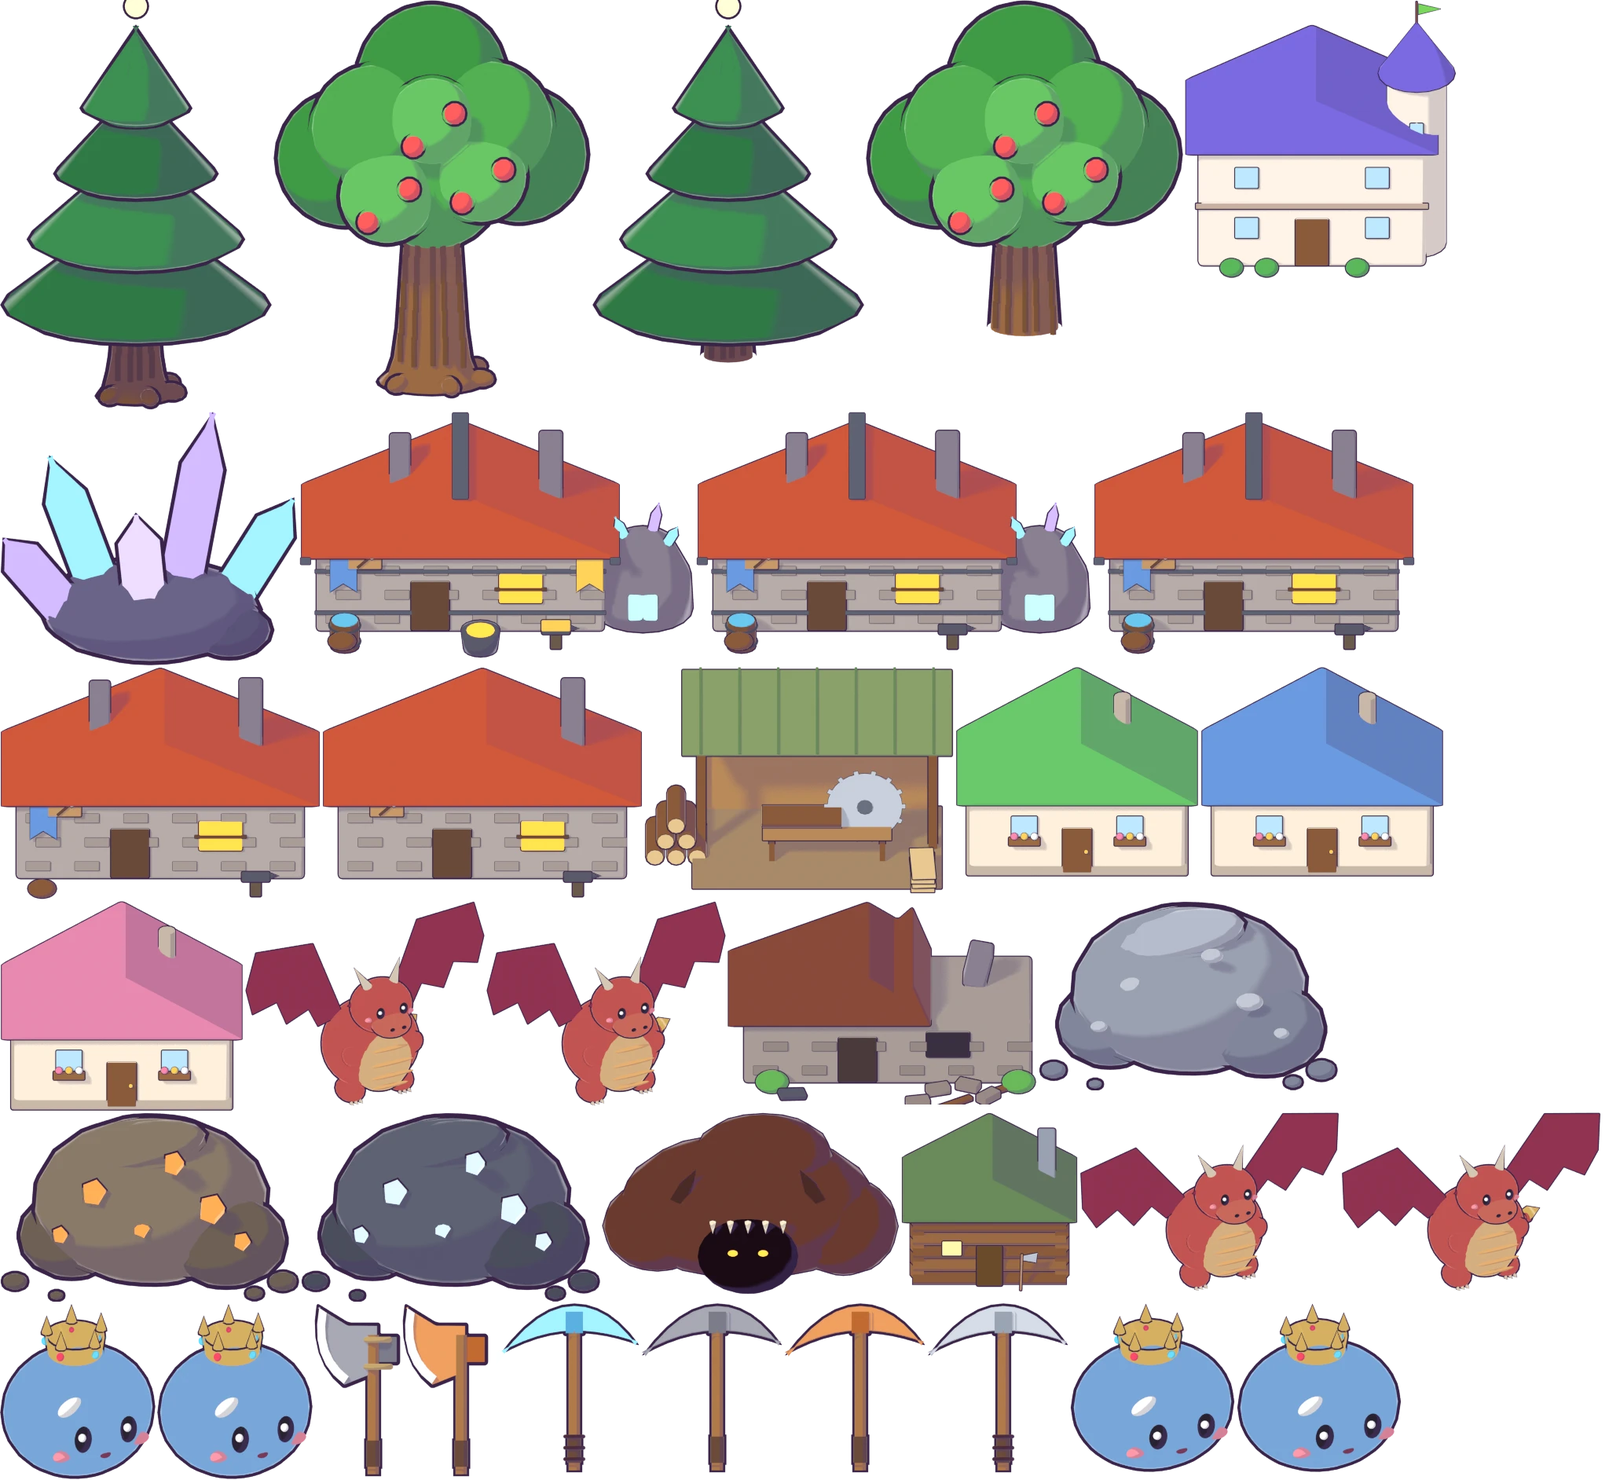
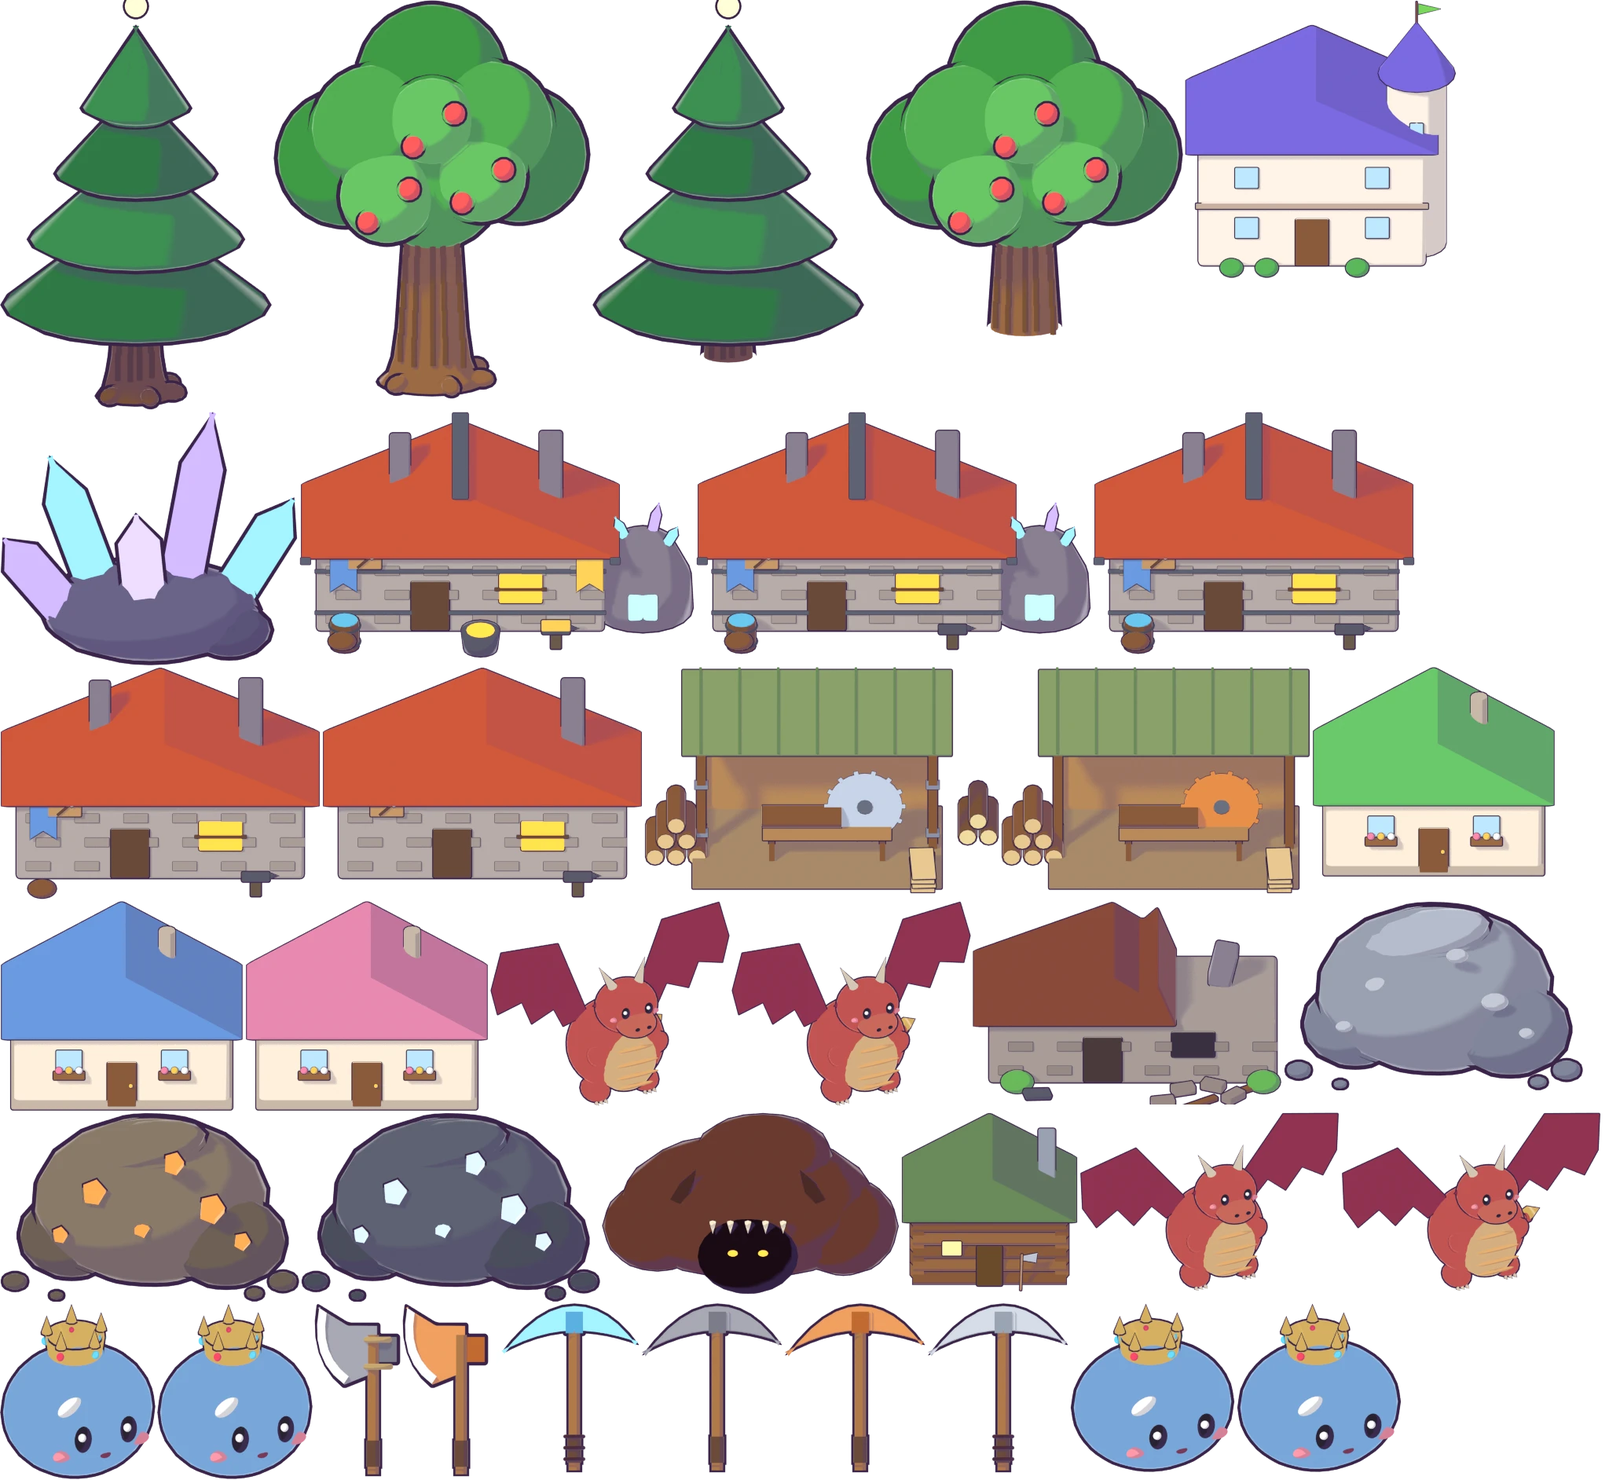
The Sawmill's blade is copper (you paid for it), and an Iron Sawmill saws Pine too
- Art: the built Sawmill's blade is copper; a new Iron Sawmill level has an
  iron blade, iron bands on the posts, and pine waiting beside the oak (map
  sprite and plans icon).
- Iron Sawmill (iron 2, pine 8, stone 6: iron was already near the farming
  budget): saws Pine Logs as well as Oak, one plank every 20 s instead of 30.
- The Sawmill screen has a row per kind of log it takes, with Saw 1 / Saw 5.

Claude-Session: https://claude.ai/code/session_01Cnp5YLEMizt2p6ijhwv75C

Changed region(s): [[0.0, 0.431, 1.0, 0.7696]]

diff --git a/src/sawmill.ts b/src/sawmill.ts
@@ -1,11 +1,19 @@
-// Bram's Sawmill: drop off Oak Logs and he saws them into Planks, one every SAW_SECONDS of real time, so they pile up
-// while you're out adventuring (or away from the game). Come back and collect them.
+// Bram's Sawmill: drop off logs and he saws them into Planks, one every so many seconds of real time, so they pile up
+// while you're out adventuring (or away from the game). Come back and collect them. The copper blade only manages
+// Oak; the Iron Sawmill cuts Pine too, and faster.
 import type { SaveState } from './state';
 
-/** Oak Logs per Plank. */
+/** Logs per Plank. */
 export const LOGS_PER_PLANK = 2;
-/** Seconds of real time per Plank. */
+/** Seconds of real time per Plank: the copper blade, and the iron one. */
 export const SAW_SECONDS = 30;
+export const IRON_SAW_SECONDS = 20;
+export type SawLog = 'bark' | 'pine';
+
+/** How long a plank takes at this Sawmill. */
+export const sawSeconds = (s: SaveState) => (s.build.sawmill >= 2 ? IRON_SAW_SECONDS : SAW_SECONDS);
+/** Which logs it can saw: Oak with the copper blade, Pine too once it's iron. */
+export const sawLogs = (s: SaveState): SawLog[] => (s.build.sawmill >= 2 ? ['bark', 'pine'] : ['bark']);
 /** Planks waiting to be sawn or collected at once. */
 export const SAW_MAX = 12;
 
@@ -23,29 +31,31 @@ const saw = (s: SaveState): SawState => (s.sawmill ??= { queued: 0, ready: 0, si
 /** Brings the sawing up to `now`: every SAW_SECONDS turns one queued plank into a ready one. */
 export function sawUpdate(s: SaveState, now = Date.now()): SawState {
   const w = saw(s);
-  while (w.queued > 0 && now - w.since >= SAW_SECONDS * 1000) {
+  const each = sawSeconds(s) * 1000;
+  while (w.queued > 0 && now - w.since >= each) {
     w.queued--;
     w.ready++;
-    w.since += SAW_SECONDS * 1000;
+    w.since += each;
   }
   if (w.queued === 0) w.since = now;
   return w;
 }
 
-/** How many more planks you could order now (room at the mill, and logs in your bag). */
-export function canOrder(s: SaveState, now = Date.now()): number {
+/** How many more planks you could order from these logs now (room at the mill, and logs in your bag). */
+export function canOrder(s: SaveState, log: SawLog = 'bark', now = Date.now()): number {
+  if (!sawLogs(s).includes(log)) return 0;
   const w = sawUpdate(s, now);
-  return Math.max(0, Math.min(SAW_MAX - w.queued - w.ready, Math.floor(s.mats.bark / LOGS_PER_PLANK)));
+  return Math.max(0, Math.min(SAW_MAX - w.queued - w.ready, Math.floor(s.mats[log] / LOGS_PER_PLANK)));
 }
 
 /** Hands Bram the logs for up to `n` planks; returns how many he took on. */
-export function sawOrder(s: SaveState, n: number, now = Date.now()): number {
-  const k = Math.min(n, canOrder(s, now));
+export function sawOrder(s: SaveState, n: number, log: SawLog = 'bark', now = Date.now()): number {
+  const k = Math.min(n, canOrder(s, log, now));
   if (k <= 0) return 0;
   const w = saw(s);
   if (w.queued === 0) w.since = now;
   w.queued += k;
-  s.mats.bark -= k * LOGS_PER_PLANK;
+  s.mats[log] -= k * LOGS_PER_PLANK;
   return k;
 }
 
@@ -60,5 +70,5 @@ export function sawCollect(s: SaveState, now = Date.now()): number {
 /** Seconds until the next plank is done (0 when nothing's on the bench). */
 export function nextPlankIn(s: SaveState, now = Date.now()): number {
   const w = sawUpdate(s, now);
-  return w.queued > 0 ? Math.max(0, Math.ceil(SAW_SECONDS - (now - w.since) / 1000)) : 0;
+  return w.queued > 0 ? Math.max(0, Math.ceil(sawSeconds(s) - (now - w.since) / 1000)) : 0;
 }

diff --git a/src/ui.ts b/src/ui.ts
@@ -10,7 +10,7 @@ import type { SaveState } from './state';
 import type { Unlock, UnlockId } from './unlocks';
 import { MOVESETS, comboTime } from './weapons';
 import { MEALS, knownMeals, mealLeft, type MealId } from './kitchen';
-import { LOGS_PER_PLANK, SAW_SECONDS, canOrder, nextPlankIn, sawUpdate } from './sawmill';
+import { LOGS_PER_PLANK, canOrder, nextPlankIn, sawLogs, sawSeconds, sawUpdate } from './sawmill';
 import { usingKeyboard } from './input';
 import { canShareFiles } from './share';
 import { reportInfo } from './stats';
@@ -1094,26 +1094,33 @@ export class UI {
 
   /**
    * Bram's Sawmill: what's on the bench, what's ready, and buttons to hand him logs or take your planks.
-   * Resolves 'saw:<n>', 'collect' or 'close'.
+   * Resolves 'saw:<n>:<log>', 'collect' or 'close'.
    */
   sawmill(s: SaveState, line: string): Promise<string> {
-    const w = sawUpdate(s), room = canOrder(s), next = nextPlankIn(s);
+    const w = sawUpdate(s), next = nextPlankIn(s), logs = sawLogs(s);
+    const logName = logs.map((l) => MATS[l].name).join(' or ');
     const bench = w.queued
       ? `🪚 Sawing <b>${w.queued}</b> plank${w.queued > 1 ? 's' : ''}: the next in ${next}s.`
-      : 'The saw is quiet. Bring Oak Logs and Bram will get to work.';
+      : `The saw is quiet. Bring ${logName} and Bram will get to work.`;
+    // A row per kind of log it takes: what you have, and buttons to hand over enough for 1 or 5 planks.
+    const rows = logs.map((l) => {
+      const room = canOrder(s, l);
+      return `<div class="sawrow">${icon(l, MATS[l].icon, 'icon sm')}<span><b>${s.mats[l]}</b> ${esc(MATS[l].name)}</span>
+        <button class="go ghost" data-dialog="saw:1:${l}" ${room >= 1 ? '' : 'disabled'}>Saw 1</button>
+        <button class="go ghost" data-dialog="saw:5:${l}" ${room >= 5 ? '' : 'disabled'}>Saw 5</button></div>`;
+    }).join('');
     const btns: [string, string, string?][] = [['close', 'Bye, Bram']];
-    if (room >= 5) btns.unshift(['saw:5', `Saw 5 (${5 * LOGS_PER_PLANK} logs)`, 'ghost']);
-    if (room >= 1) btns.unshift(['saw:1', `Saw 1 (${LOGS_PER_PLANK} logs)`, 'ghost']);
     if (w.ready) btns.push(['collect', `Take ${w.ready} plank${w.ready > 1 ? 's' : ''}`]);
     return this.dialog(
       `${ribbon("Bram's Sawmill")}
        <div class="speaker small">${icon('npc_bram_happy', '🧔', 'icon sm')}<b>Bram</b></div>
        <div class="bubble">${esc(line)}</div>
        <div class="sawbench">
-         <div class="chips">${icon('bark', MATS.bark.icon, 'icon sm')} <b>${s.mats.bark}</b> Oak Logs · ${icon('plank', MATS.plank.icon, 'icon sm')} <b>${s.mats.plank}</b> Planks</div>
+         ${rows}
+         <div class="chips">${icon('plank', MATS.plank.icon, 'icon sm')} You have <b>${s.mats.plank}</b> Planks</div>
          <p>${bench}</p>
          ${w.ready ? `<p class="ready">✨ ${w.ready} plank${w.ready > 1 ? 's' : ''} ready to take!</p>` : ''}
-         <p class="small">${LOGS_PER_PLANK} Oak Logs make a Plank, one every ${SAW_SECONDS} seconds, even while you're away.</p>
+         <p class="small">${LOGS_PER_PLANK} logs make a Plank, one every ${sawSeconds(s)} seconds, even while you're away.${s.build.sawmill < 2 ? ' An iron blade would cut Pine too.' : ''}</p>
        </div>`,
       btns,
       'celebrate quest sawmill',

diff --git a/tests/sawmill.test.ts b/tests/sawmill.test.ts
@@ -1,5 +1,5 @@
 import { describe, expect, test } from 'bun:test';
-import { LOGS_PER_PLANK, SAW_MAX, SAW_SECONDS, canOrder, nextPlankIn, sawCollect, sawOrder, sawUpdate } from '../src/sawmill';
+import { IRON_SAW_SECONDS, LOGS_PER_PLANK, SAW_MAX, SAW_SECONDS, canOrder, nextPlankIn, sawCollect, sawOrder, sawUpdate } from '../src/sawmill';
 import { newState } from '../src/state';
 
 const T0 = 1_000_000;
@@ -9,16 +9,16 @@ describe("Bram's Sawmill", () => {
   test('takes two logs a plank, and only what you can pay for', () => {
     const s = newState();
     s.mats.bark = 5;
-    expect(canOrder(s, T0)).toBe(2);
-    expect(sawOrder(s, 5, T0)).toBe(2);
+    expect(canOrder(s, 'bark', T0)).toBe(2);
+    expect(sawOrder(s, 5, 'bark', T0)).toBe(2);
     expect(s.mats.bark).toBe(5 - 2 * LOGS_PER_PLANK);
-    expect(sawOrder(s, 1, T0)).toBe(0);
+    expect(sawOrder(s, 1, 'bark', T0)).toBe(0);
   });
 
   test('saws one plank every SAW_SECONDS of real time, even while you are away', () => {
     const s = newState();
     s.mats.bark = 20;
-    sawOrder(s, 3, T0);
+    sawOrder(s, 3, 'bark', T0);
     expect(nextPlankIn(s, T0)).toBe(SAW_SECONDS);
     expect(sawUpdate(s, later(SAW_SECONDS - 1)).ready).toBe(0);
     expect(sawUpdate(s, later(SAW_SECONDS)).ready).toBe(1);
@@ -30,7 +30,7 @@ describe("Bram's Sawmill", () => {
   test('collecting puts the planks in your bag', () => {
     const s = newState();
     s.mats.bark = 20;
-    sawOrder(s, 2, T0);
+    sawOrder(s, 2, 'bark', T0);
     expect(sawCollect(s, later(SAW_SECONDS * 2))).toBe(2);
     expect(s.mats.plank).toBe(2);
     expect(sawCollect(s, later(SAW_SECONDS * 3))).toBe(0);
@@ -39,9 +39,9 @@ describe("Bram's Sawmill", () => {
   test('an order made later starts its own clock', () => {
     const s = newState();
     s.mats.bark = 20;
-    sawOrder(s, 1, T0);
+    sawOrder(s, 1, 'bark', T0);
     sawUpdate(s, later(1000));
-    sawOrder(s, 1, later(1000));
+    sawOrder(s, 1, 'bark', later(1000));
     expect(sawUpdate(s, later(1000 + SAW_SECONDS - 1)).ready).toBe(1);
     expect(sawUpdate(s, later(1000 + SAW_SECONDS)).ready).toBe(2);
   });
@@ -49,7 +49,20 @@ describe("Bram's Sawmill", () => {
   test('the bench holds at most SAW_MAX planks, sawing or waiting', () => {
     const s = newState();
     s.mats.bark = 999;
-    expect(sawOrder(s, 999, T0)).toBe(SAW_MAX);
-    expect(canOrder(s, T0)).toBe(0);
+    expect(sawOrder(s, 999, 'bark', T0)).toBe(SAW_MAX);
+    expect(canOrder(s, 'bark', T0)).toBe(0);
+  });
+
+  test('the copper blade only saws Oak; the Iron Sawmill saws Pine too, and faster', () => {
+    const s = newState();
+    Object.assign(s.mats, { bark: 10, pine: 10 });
+    s.build.sawmill = 1;
+    expect(sawOrder(s, 1, 'pine', T0)).toBe(0);
+    expect(s.mats.pine).toBe(10);
+    s.build.sawmill = 2;
+    expect(sawOrder(s, 2, 'pine', T0)).toBe(2);
+    expect(s.mats.pine).toBe(10 - 2 * LOGS_PER_PLANK);
+    expect(IRON_SAW_SECONDS).toBeLessThan(SAW_SECONDS);
+    expect(sawUpdate(s, later(IRON_SAW_SECONDS * 2)).ready).toBe(2);
   });
 });

diff --git a/src/version.ts b/src/version.ts
@@ -35,7 +35,7 @@ export const PATCH_NOTES: PatchNote[] = [
       '⭐ Winning feels like growing stronger: after a fight "+XP" pops up and your XP bar fills with bubbly chirps that climb faster as it nears the top, rings with a bright bell when it tops out, and keeps filling into the next level.',
       "👵 Granny Clover lives in Sowerby from the day you arrive, worrying about her granddaughter. Once Poppy's safe home, Granny's Kitchen opens: Fluff Pancakes for more XP, Clover Tea to heal after fights, and Goo Jelly to keep weak monsters away. One meal at a time; a little plate on your health bar shows what's left.",
       "🧔 A new side story, Bram's Sawmill: Granny sends you to an old friend, a grumpy lumberjack in Whisper Woods. Chop quietly (misses are loud!), defend his camp from a Woolf pack and its scarred leader, then help him home.",
-      "🪚 Bram's Sawmill in Sowerby: hand him Oak Logs and he saws them into Planks, even while you're away. He brings a new recipe for Granny's Kitchen too.",
+      "🪚 Bram's Sawmill in Sowerby: hand him Oak Logs and his copper blade saws them into Planks, even while you're away. Upgrade to an Iron Sawmill to saw Pine Logs too, and faster. He brings a new recipe for Granny's Kitchen too.",
       "🪓 A better start in Sowerby: Elder Oswin hands you his old axe and pick. Mend them with monster drops, then gather stone and logs to rebuild the forge.",
       '❤ Levelling up raises your max HP, and adds the same to your health, but no longer heals you fully: rest at Veyra\'s Spring or a campfire for that.',
       '⚔ Weapon handling matters: every swing and shot has a moment before the next, and a full combo a short rest. The more you fight with a kind of weapon, the quicker you get with it, up to about 80% faster when mastered (the Skills tab shows how much). This replaces the stamina meter.',

diff --git a/tests/e2e/smoke.ts b/tests/e2e/smoke.ts
@@ -644,10 +644,10 @@ scenario("Bram's story plays from Granny's pie to his cabin, and Granny learns h
   await playUntil('the Sawmill', async () => (await step()) === 8 && (await game<string>(page, 'g.mode')) === 'world');
   // Saw six planks (the clock wound on, rather than waiting three minutes), take them, and bring them to Bram.
   await talk('bram:bram');
-  await waitFor(page, 'the bench', async () => !!(await page.$('#modal:not([hidden]) [data-dialog="saw:5"]')));
-  await page.click('[data-dialog="saw:5"]');
-  await waitFor(page, 'saw one more', async () => !!(await page.$('#modal:not([hidden]) [data-dialog="saw:1"]')));
-  await page.click('[data-dialog="saw:1"]');
+  await waitFor(page, 'the bench', async () => !!(await page.$('#modal:not([hidden]) [data-dialog="saw:5:bark"]')));
+  await page.click('[data-dialog="saw:5:bark"]');
+  await waitFor(page, 'saw one more', async () => !!(await page.$('#modal:not([hidden]) [data-dialog="saw:1:bark"]')));
+  await page.click('[data-dialog="saw:1:bark"]');
   await page.waitForTimeout(300);
   await page.click('[data-dialog="close"]');
   await page.waitForTimeout(300);

diff --git a/src/data.ts b/src/data.ts
@@ -471,7 +471,10 @@ export const PROJECTS: Record<ProjectId, Project> = {
   // Bram's, once he's moved to Sowerby (his story).
   sawmill: {
     name: 'Sawmill', icon: '🪚',
-    levels: [{ name: 'Sawmill', cost: { pine: 6, stone: 6, copper: 3 }, perk: 'Bram saws your Oak Logs into Planks, even while you\'re away' }],
+    levels: [
+      { name: 'Sawmill', cost: { pine: 6, stone: 6, copper: 3 }, perk: 'A copper blade: Bram saws your Oak Logs into Planks, even while you\'re away' },
+      { name: 'Iron Sawmill', cost: { iron: 2, pine: 8, stone: 6 }, perk: 'An iron blade: saws Pine Logs too, and faster' },
+    ],
   },
 };
 

diff --git a/src/game/stories/bram.ts b/src/game/stories/bram.ts
@@ -61,7 +61,8 @@ export function openSawmill(greeting = MILL_LINES[line++ % MILL_LINES.length]) {
     for (;;) {
       const r = await G.ui.sawmill(G.save, greeting);
       if (r.startsWith('saw:')) {
-        const n = sawOrder(G.save, Number(r.slice(4)));
+        const [, count, log] = r.split(':');
+        const n = sawOrder(G.save, Number(count), log === 'pine' ? 'pine' : 'bark');
         if (n) G.audio.play('chop');
         greeting = n ? `Right. ${n} plank${n > 1 ? 's' : ''} coming up.` : "You'll need more logs than that.";
       } else if (r === 'collect') {

diff --git a/public/style.css b/public/style.css
@@ -1143,3 +1143,6 @@ body.kbd .drag-hint .keys { display: flex; }
 .sheet.sawmill .sawbench .ready { color: #3a8a44; font-weight: 900; }
 .sheet.sawmill .sawbench .small { font-size: 13px; opacity: 0.75; }
 .sheet.sawmill .btns .go { padding: 10px 16px; font-size: 15px; }
+.sheet.sawmill .sawrow { display: flex; align-items: center; gap: 8px; margin: 4px 0; text-align: left; }
+.sheet.sawmill .sawrow span { flex: 1; font-weight: 800; }
+.sheet.sawmill .sawrow .go { padding: 6px 12px; font-size: 14px; }

diff --git a/src/overworld.ts b/src/overworld.ts
@@ -928,7 +928,7 @@ export class Overworld {
         const p = o.project!, l = lv(p);
         if (p === 'home') return { name: `home${l}`, back: 0.42 };
         if (p === 'warp') return { name: `warp${l}`, back: 0.1 };
-        if (p === 'sawmill') return { name: `sawmill${l ? 1 : 0}`, back: 0.3 };
+        if (p === 'sawmill') return { name: `sawmill${l}`, back: 0.3 };
         return { name: l ? `${p}${l}` : 'plot', back: 0.28 };
       }
       default: return null;

diff --git a/art/env.py b/art/env.py
@@ -588,9 +588,9 @@ GRASS = {
 }
 
 # name → (builder, frame w, frame h) in pixels at PPU 64
-def _saw_blade(parent, loc, r, rot=(math.pi / 2, 0, 0), broken=False):
-    """A round saw blade with teeth; `broken` leaves a gap in it."""
-    steel = toon('#c8d0dc', rim=0.35)
+def _saw_blade(parent, loc, r, rot=(math.pi / 2, 0, 0), broken=False, metal='#c8d0dc'):
+    """A round saw blade with teeth; `broken` leaves a gap in it. `metal`: copper, iron or old steel."""
+    steel = toon(metal, rim=0.35)
     cylinder(loc, r, 0.05, steel, parent, seg=28, rot=rot, line=0.012)
     cylinder(loc, r * 0.22, 0.08, toon('#6a7080'), parent, seg=12, rot=rot, line=0.01)
     n = 14
@@ -608,15 +608,15 @@ def _log(parent, loc, length, r, rot, bark='#8a5a3a', end='#e8c890'):
     return parent
 
 
-def log_pile(root=None, n=3):
-    """Logs stacked in a little pyramid, ends facing you."""
+def log_pile(root=None, n=3, bark='#8a5a3a', end='#e8c890'):
+    """Logs stacked in a little pyramid, ends facing you (oak by default; pass pine's colours for pine)."""
     root = root or empty('logs')
     for row, count in enumerate(range(n, 0, -1)):
         for i in range(count):
             x = (i - (count - 1) / 2) * 0.42
             z = 0.2 + row * 0.36
-            cylinder((x, 0, z), 0.2, 1.3, toon('#8a5a3a'), root, seg=12, rot=(math.pi / 2, 0, 0))
-            cylinder((x, -0.66, z), 0.17, 0.02, toon('#e8c890'), root, seg=12, rot=(math.pi / 2, 0, 0), line=0.01)
+            cylinder((x, 0, z), 0.2, 1.3, toon(bark), root, seg=12, rot=(math.pi / 2, 0, 0))
+            cylinder((x, -0.66, z), 0.17, 0.02, toon(end), root, seg=12, rot=(math.pi / 2, 0, 0), line=0.01)
     return root
 
 
@@ -652,7 +652,14 @@ def sawmill(level):
         box((x, -0.35, 0.4), (0.15, 0.7, 0.7), dark, root, bevel=0.02)
     cylinder((-0.3, -0.35, 1.02), 0.24, 1.6, toon('#8a5a3a'), root, seg=12, rot=(0, math.pi / 2, 0))
     cylinder((-1.1, -0.35, 1.02), 0.21, 0.02, plank, root, seg=12, rot=(0, math.pi / 2, 0), line=0.01)
-    _saw_blade(root, (0.95, -0.35, 1.25), 0.75, rot=(math.pi / 2, 0, 0))
+    # The blade is what you paid for: copper at first, iron once upgraded (with iron bands on the posts).
+    _saw_blade(root, (0.95, -0.35, 1.25), 0.75, rot=(math.pi / 2, 0, 0), metal='#e8904a' if level == 1 else '#c8d4e8')
+    if level >= 2:
+        for x in (-w / 2 + 0.2, w / 2 - 0.2):
+            for z in (0.5, 1.6):
+                box((x, -0.1, z), (0.28, 0.28, 0.08), toon('#8a92a8'), root, bevel=0.01, line=0.008)
+        # Pine waiting its turn, beside the oak.
+        log_pile(empty('pines', root, (w / 2 + 0.7, 0.9, 0)), 2, '#7a5238', '#f0dca0')
     # Planks stacked by the front corner, and logs waiting at the side.
     for i in range(4):
         box((w / 2 - 0.4, -d / 2 + 0.1, 0.26 + i * 0.1), (0.5, 1.2, 0.08), plank, root, bevel=0.02, rot=(0, 0, 0.05 * (i % 2)))
@@ -762,6 +769,7 @@ SCENERY['sign'] = (sign, 90, 90)
 SCENERY['lair'] = (lair, 400, 300)
 SCENERY['sawmill0'] = (lambda: sawmill(0), 320, 220)
 SCENERY['sawmill1'] = (lambda: sawmill(1), 360, 340)
+SCENERY['sawmill2'] = (lambda: sawmill(2), 380, 340)
 SCENERY['bramhut'] = (bramhut, 230, 260)
 SCENERY['prop_campstump'] = (camp_stump, 170, 150)
 SCENERY['prop_campmill'] = (camp_mill, 330, 230)

diff --git a/art/render_all.py b/art/render_all.py
@@ -203,7 +203,7 @@ elif GROUP == 'icons2':
         lib.render_fit(path, 128, math.radians(12))
         frames.append({'name': 'icon/npc_elder', 'file': path, 'ax': 0, 'ay': 0, 'ppu': 0})
     for name in ('home1', 'home2', 'home3', 'forge0', 'forge', 'forge2', 'forge3', 'forge4', 'forge5', 'garden1', 'garden2', 'garden3',
-                 'training1', 'training2', 'training3', 'warp0', 'warp1', 'campfire', 'plot', 'sawmill0', 'sawmill1', 'bramhut'):
+                 'training1', 'training2', 'training3', 'warp0', 'warp1', 'campfire', 'plot', 'sawmill0', 'sawmill1', 'sawmill2', 'bramhut'):
         if not wanted(name):
             continue
         lib.clear_objects()
